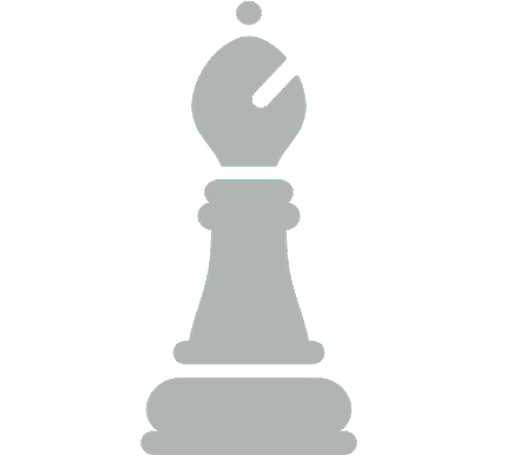
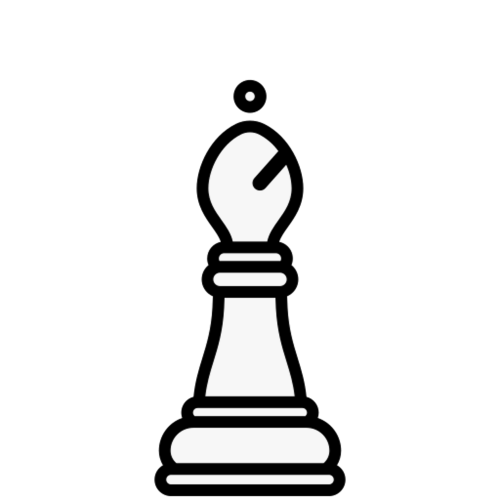
update chessman's shape

Changed region(s): [[0.27, 0.0, 0.72, 1.0]]

diff --git a/static/script.js b/static/script.js
@@ -1,3 +1,6 @@
+const EVENCOLOR = "#FDF172"
+const ODDCOLOR = "#E8E305"
+
 function fetch_boardGame() {
     fetch('http://127.0.0.1:5000/get_board')
         .then(response => {
@@ -105,9 +108,9 @@ chessBoard.addEventListener("mousedown", (event) => {
                     }
                     // Change the background color of the target cell
                     if (target_cell.classList.contains('even-row')) {
-                        target_cell.style.backgroundColor = "#F4F680";
+                        target_cell.style.backgroundColor = EVENCOLOR;
                     } else if (target_cell.classList.contains('odd-row')) {
-                        target_cell.style.backgroundColor = "#BBCC44";
+                        target_cell.style.backgroundColor = ODDCOLOR;
                     }
 
                     // Implement your logic to update the board state
@@ -134,9 +137,9 @@ chessBoard.addEventListener("mousedown", (event) => {
 
                         // Change the background color of the target cell
                         if (cell.classList.contains('even-row')) {
-                            cell.style.backgroundColor = "#F4F680";
+                            cell.style.backgroundColor = EVENCOLOR;
                         } else if (cell.classList.contains('odd-row')) {
-                            cell.style.backgroundColor = "#BBCC44";
+                            cell.style.backgroundColor = ODDCOLOR;
                         }
                     }
                 }
@@ -162,9 +165,9 @@ chessBoard.addEventListener("mousedown", (event) => {
 
             // Change the background color of the target cell
             if (cell.classList.contains('even-row')) {
-                cell.style.backgroundColor = "#F4F680";
+                cell.style.backgroundColor = EVENCOLOR;
             } else if (cell.classList.contains('odd-row')) {
-                cell.style.backgroundColor = "#BBCC44";
+                cell.style.backgroundColor = ODDCOLOR;
             }
         }
     }

diff --git a/static/styles.css b/static/styles.css
@@ -40,16 +40,16 @@ body {
 }
 
 .odd-row{
-    background-color: #779954;
+    background-color: #D08B18;
 }
 
 .even-row{
-    background-color: #E9EDCC;
+    background-color: #FCE4B2;
 }
 
 .img-with-hover {
     width: 100%;
-    max-height: calc(80vh/8);
+    max-height: calc(85vh/8);
     object-fit: contain;
 }
 

diff --git a/templates/index.html b/templates/index.html
@@ -10,6 +10,7 @@
 <body>
 
     <div class="taskbar" style="flex: 1; background-color: #262522;">
+        
     </div>
 
     <div class="main_screen" style="flex: 5;">

diff --git a/Chess_Pieces/Queen.py b/Chess_Pieces/Queen.py
@@ -8,9 +8,9 @@ class Queen(Chessman):
         super().__init__(x, y, enemy, board)
 
         if self.enemy == 1:
-            self.img_src = "https://i.ibb.co/cbJB60d/queen1.png"
+            self.img_src = "https://i.ibb.co/wKgDDdk/queen1.png"
         else:
-            self.img_src = "https://i.ibb.co/ZW1hBhK/queen2.png"
+            self.img_src = "https://i.ibb.co/0msmLhq/queen2.png"
         self.enable_coordinates = {(x, y) for x in range(-7, 8) for y in range(-7, 8) if (x != 0 or y != 0) and (abs(x) == abs(y) or x == 0 or y == 0)}
 
     def move(self, x , y):

diff --git a/Chess_Pieces/Bishop.py b/Chess_Pieces/Bishop.py
@@ -8,9 +8,9 @@ class Bishop(Chessman):
         super().__init__(x, y, enemy, board)
 
         if self.enemy == 1:
-            self.img_src = "https://i.ibb.co/8jtj6qt/bishop1.png"
+            self.img_src = "https://i.ibb.co/n6rZkMB/bishop1.png"
         else:
-            self.img_src = "https://i.ibb.co/WKNmtbf/bishop2.png"
+            self.img_src = "https://i.ibb.co/L0TP96r/bishop2.png"
             
         self.enable_coordinates = {(x, y) for x in range(-7, 8) for y in range(-7, 8) if abs(x) == abs(y) and (x, y) != (0, 0)}
 

diff --git a/Chess_Pieces/Pawn.py b/Chess_Pieces/Pawn.py
@@ -8,9 +8,9 @@ class Pawn(Chessman):
         super().__init__(x, y, enemy, board)
 
         if self.enemy == 1:
-            self.img_src = "https://i.ibb.co/mBTT6Nv/pawn1.png"
+            self.img_src = "https://i.ibb.co/44yfrZW/pawn1.png"
         else:
-            self.img_src = "https://i.ibb.co/qsKFHff/pawn2.png"
+            self.img_src = "https://i.ibb.co/jRVFgYT/pawn2.png"
         self.enable_coordinates = {(x * self.enemy, y * self.enemy) for x, y in {(0, 1), (-1, 1), (1, 1), (0, 2)}}
 
     def move(self, x , y):

diff --git a/Chess_Pieces/Castle.py b/Chess_Pieces/Castle.py
@@ -8,9 +8,9 @@ class Castle(Chessman):
         super().__init__(x, y, enemy, board)
 
         if self.enemy == 1:
-            self.img_src = "https://i.ibb.co/FnHfTqQ/castle1.png"
+            self.img_src = "https://i.ibb.co/7CQymKz/castle1.png"
         else:
-            self.img_src = "https://i.ibb.co/0qxBNRw/castle2.png"
+            self.img_src = "https://i.ibb.co/H4QJvBY/castle2.png"
 
         self.enable_coordinates = {(x, y) for x in range(-7, 8) for y in range(-7, 8) if (x == 0 or y == 0) and (x, y) != (0, 0)}
 

diff --git a/Chess_Pieces/King.py b/Chess_Pieces/King.py
@@ -8,9 +8,9 @@ class King(Chessman):
         super().__init__(x, y, enemy, board)
 
         if self.enemy == 1:
-            self.img_src = "https://i.ibb.co/sqZYzz0/king1.png"
+            self.img_src = "https://i.ibb.co/0q2WBqX/king1.png"
         else:
-            self.img_src = "https://i.ibb.co/FspF0hX/king2.png"
+            self.img_src = "https://i.ibb.co/KK340cm/king2.png"
         self.enable_coordinates = {(x, y) for x in range(-1, 2) for y in range(-1, 2) if (x != 0 or y != 0)}
 
     def move(self, x , y):

diff --git a/Chess_Pieces/Knight.py b/Chess_Pieces/Knight.py
@@ -8,9 +8,9 @@ class Knight(Chessman):
         super().__init__(x, y, enemy, board)
 
         if self.enemy == 1:
-            self.img_src = "https://i.ibb.co/pWHcYzY/knight1.png"
+            self.img_src = "https://i.ibb.co/4mjKm9Z/knight1.png"
         else:
-            self.img_src = "https://i.ibb.co/379FzSB/knight2.png"
+            self.img_src = "https://i.ibb.co/YDKZDCw/knight2.png"
             
         self.enable_coordinates = {(x, y) for x in (-1, -2, 1, 2) for y in (-1, -2, 1, 2) if abs(x) != abs(y)}
 
